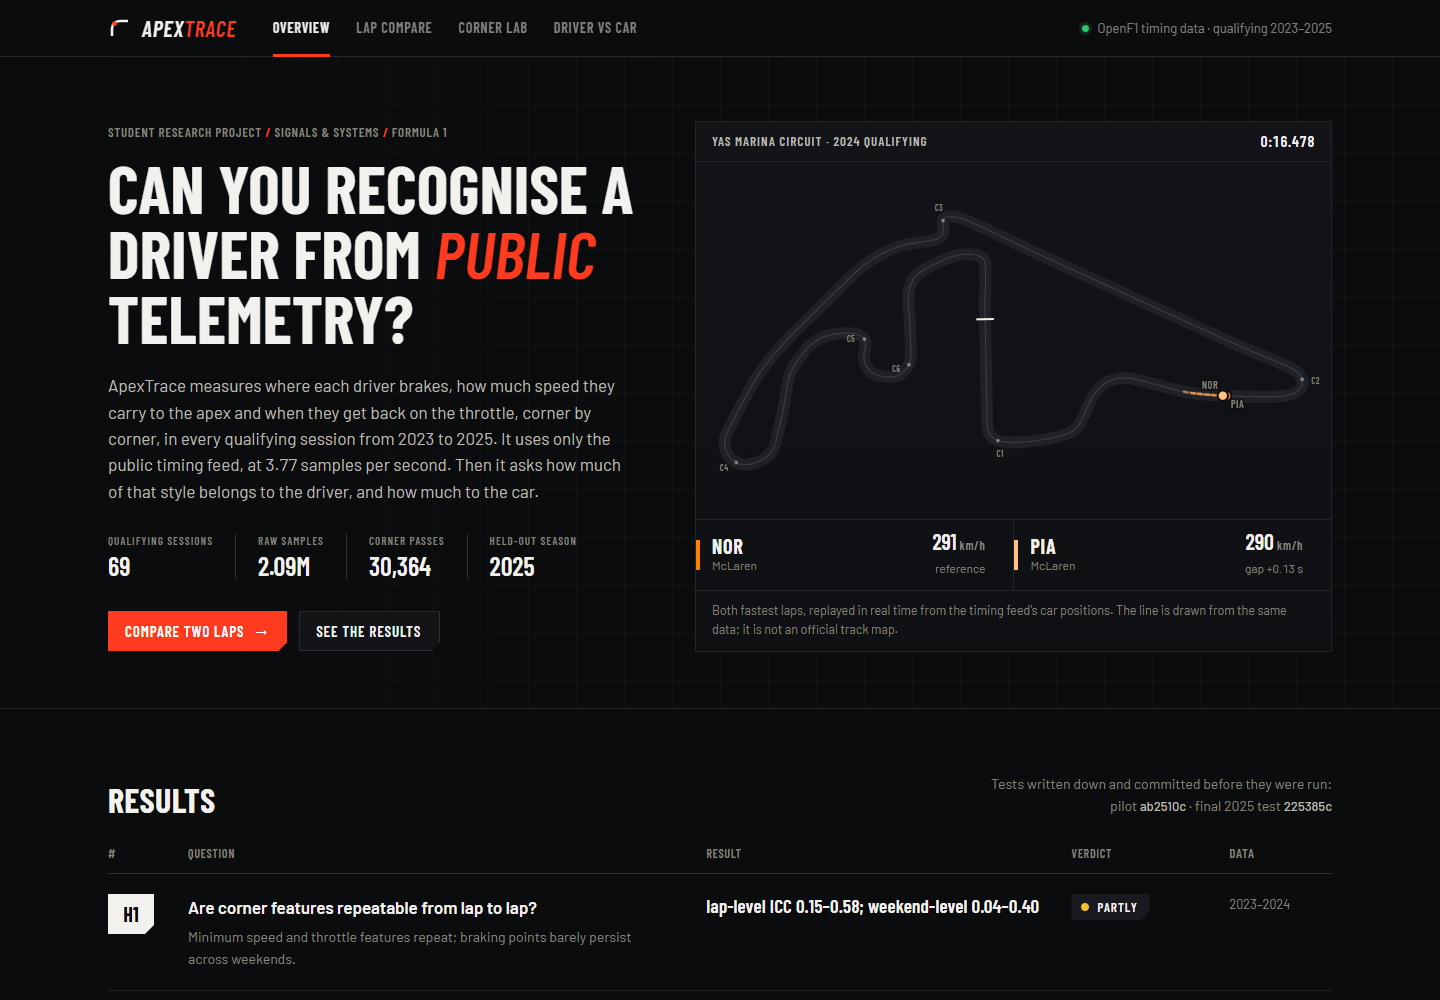
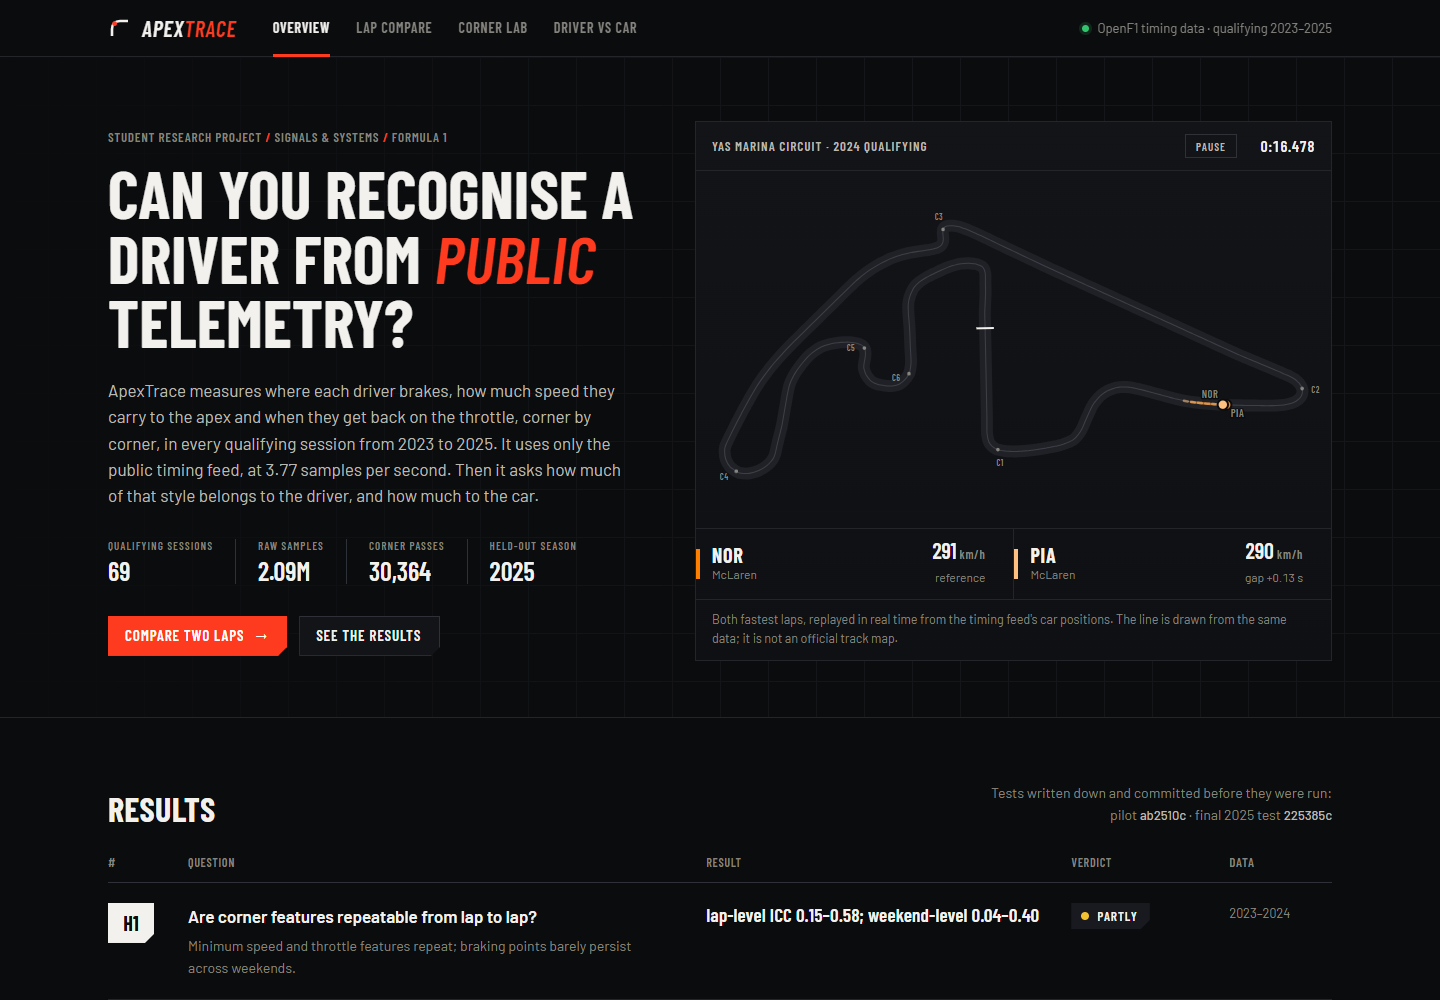
Add a play/pause button to the overview replay
- With reduced motion (e.g. Windows animation effects off) the page shows the
  finished laps and offers a replay instead of staying frozen
- Otherwise it plays by itself and can be paused

diff --git a/app/static/js/hero.js b/app/static/js/hero.js
@@ -131,27 +131,49 @@
   }
 
   const duration = Math.max(...cars.map((c) => c.lap_time_s));
-  if (AT.reducedMotion) {          // no animation: show the finished laps
-    draw(duration);
-    return;
+
+  // ---------------------------------------------------------------- playback (play/pause, paused off screen)
+  // If the viewer's system asks for reduced motion (Windows: Settings > Accessibility >
+  // Visual effects > Animation effects off), nothing moves on its own: the finished laps
+  // are shown and the button offers a replay. Motion the viewer starts is fine.
+  const button = document.getElementById("hero-play");
+  let t = AT.reducedMotion ? duration : 0;     // replay time in seconds
+  let playing = !AT.reducedMotion;
+  let visible = true, last = null, raf = null;
+
+  function frame(now) {
+    raf = null;
+    if (!playing || !visible) { last = null; return; }
+    if (last !== null) t += (now - last) / 1000;  // advance by real elapsed time
+    last = now;
+    if (t > duration + HOLD_S) t = 0;             // loop after a short hold at the finish
+    draw(Math.min(t, duration));
+    raf = requestAnimationFrame(frame);
+  }
+  function run() {
+    if (raf === null) { last = null; raf = requestAnimationFrame(frame); }
+  }
+  function label() {
+    button.textContent = playing ? "Pause" : t >= duration ? "Replay" : "Play";
+    button.setAttribute("aria-label", playing ? "Pause the lap replay" : "Play the lap replay");
   }
 
-  // ---------------------------------------------------------------- playback loop (paused when off screen)
-  let visible = true, start = null, raf = null;
-  function frame(now) {
-    if (start === null) start = now;
-    let t = (now - start) / 1000;
-    if (t > duration + HOLD_S) { start = now; t = 0; }
-    draw(Math.min(t, duration));
-    raf = visible ? requestAnimationFrame(frame) : null;
-  }
+  button.hidden = false;
+  button.addEventListener("click", () => {
+    playing = !playing;
+    if (playing && t >= duration) t = 0;
+    label();
+    if (playing) run();
+  });
   new IntersectionObserver((entries) => {
     visible = entries[0].isIntersecting && !document.hidden;
-    if (visible && raf === null) { start = null; raf = requestAnimationFrame(frame); }
+    if (visible) run();
   }).observe(document.getElementById("hero"));
   document.addEventListener("visibilitychange", () => {
     visible = !document.hidden;
-    if (visible && raf === null) { start = null; raf = requestAnimationFrame(frame); }
+    if (visible) run();
   });
-  raf = requestAnimationFrame(frame);
+  draw(Math.min(t, duration));
+  label();
+  run();
 })();

diff --git a/app/static/css/app.css b/app/static/css/app.css
@@ -182,7 +182,13 @@ select option { background: var(--panel); color: var(--ink); }
   padding: 12px 16px; border-bottom: 1px solid var(--hair);
   font: 600 13px/1 var(--font-display); letter-spacing: 0.08em; text-transform: uppercase; color: var(--ink-2);
 }
-.track-panel-head .clock { color: var(--ink); font-size: 15px; letter-spacing: 0.04em; }
+.track-panel-head .clock { color: var(--ink); font-size: 15px; letter-spacing: 0.04em; min-width: 66px; text-align: right; }
+.hero-controls { display: flex; align-items: center; gap: 12px; }
+.hero-play {
+  height: 24px; padding: 0 10px; border: 1px solid var(--hair-2); background: transparent; color: var(--ink-2);
+  font: 600 11px/1 var(--font-display); letter-spacing: 0.1em; text-transform: uppercase; cursor: pointer;
+}
+.hero-play:hover { color: var(--ink); border-color: #44464e; }
 .hero-svg { width: 100%; height: auto; aspect-ratio: 16 / 9; }
 .readout { display: grid; grid-template-columns: 1fr 1fr; border-top: 1px solid var(--hair); }
 .readout-car { display: grid; grid-template-columns: 4px auto 1fr auto; align-items: center; gap: 0 12px; padding: 10px 16px 10px 0; }

diff --git a/app/templates/index.html b/app/templates/index.html
@@ -28,7 +28,10 @@
     <figure class="track-panel" id="hero">
       <div class="track-panel-head">
         <span id="hero-title">Loading lap…</span>
-        <span class="clock num" id="hero-clock">0:00.000</span>
+        <span class="hero-controls">
+          <button type="button" class="hero-play" id="hero-play" hidden>Pause</button>
+          <span class="clock num" id="hero-clock">0:00.000</span>
+        </span>
       </div>
       <svg class="hero-svg" id="hero-svg" viewBox="0 0 800 450" role="img" aria-labelledby="hero-title"></svg>
       <div class="readout" id="hero-readout"></div>
